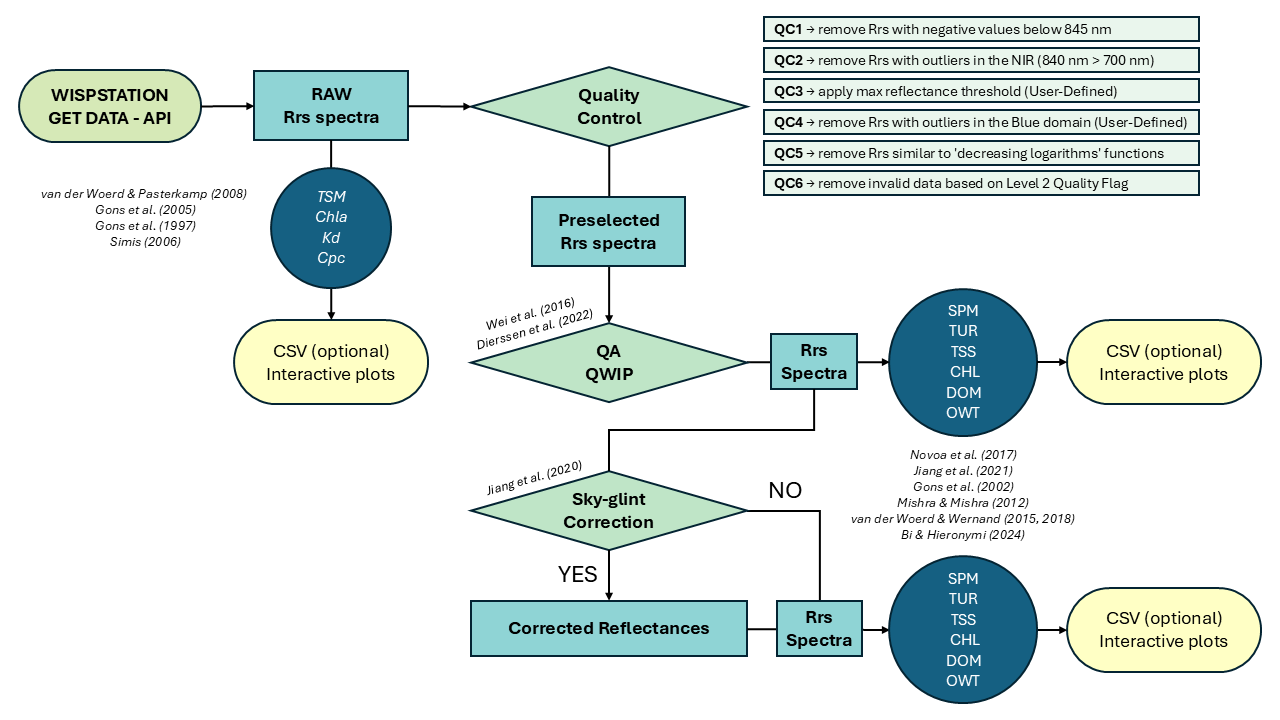
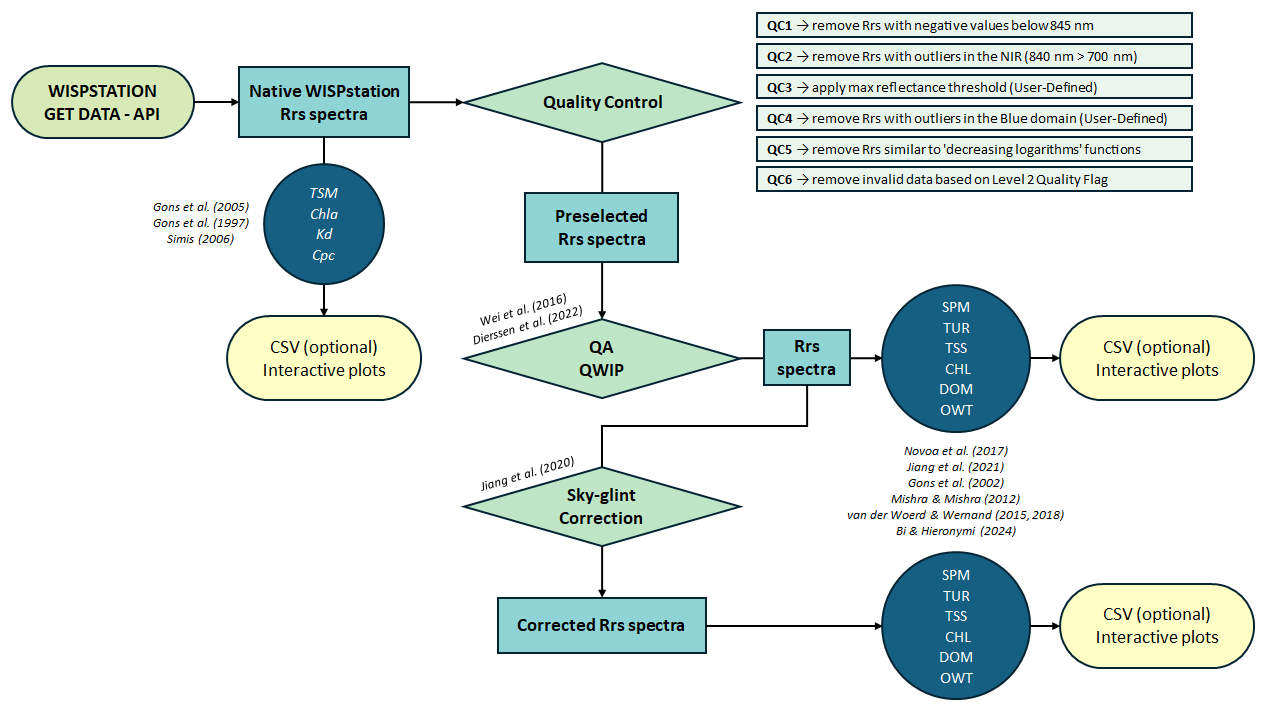
Update Paper

diff --git a/paper/paper.md b/paper/paper.md
@@ -60,17 +60,16 @@ header-includes:
 # Summary
 
 `WISP.data` is an R package designed to automate the download, quality control (QC), processing, analysis, and visualization of spectral data collected by WISPstation fixed spectroradiometers.
-Developed by Water Insight B.V. (Ede, The Netherlands) as an evolution of the handheld WISP-3 system [@Hommersom:2012], the WISPstation is an autonomous above water instrument installed at fixed position that records radiance and irradiance across a wavelength range of 350 to 900 nm, with a spectral resolution of 4.6 nm at high frequency (e.g. every 15 minutes, during daytime).
+Developed by Water Insight B.V. (Ede, The Netherlands) as an evolution of the handheld WISP-3 system [@Hommersom:2012], the WISPstation is an autonomous above water instrument installed at fixed position that records radiance and irradiance across a wavelength range of 350 to 900 nm, with a spectral resolution of 4.6 nm at high frequency (e.g. every 15 minutes, during daytime) [@Peters:2018].
 This R package serves as a crucial bridge between Water Insight API services and the scientific users, enabling the conversion of native reflectance measurements into robust, analysis-ready products through fully reproducible and transparent workflows, from an Open Science perspective.
 
-The package performs the retrieval of water-leaving radiance ($L_w$) from total upwelling radiance ($L_u$), which includes sky- and sun-glint contributions, by integrating $L_{sky}$ and $E_s$ measurements.
 `WISP.data` provides a modular set of R functions for: I. downloading data from specific WISPstation by making use of the solutions provided by Water Insight itself (APIs and now via user accounts); II. performing automated and reproducible quality control (QC); III. performing automated sky-glint removal (SR); IV. applying empirical and semi‑analytical bio‑optical algorithms to spectral measurements to retrieve optical properties and water quality parameters; V. visualizing spectral and derived data products.
 
 This makes `WISP.data` an ideal solution for satellite-derived product validation, operational water quality monitoring, long-term research applications, and integration into large-scale environmental data pipelines.
 
 # Statement of need
 
-The WISPstation is an autonomous above water fixed spectrometer installed at fixed position, that supports continuous monitoring of water quality; beyond providing high-frequency spectral measurements, it provides water quality products derived from selected algorithms [@Gons:1997; @Gons:2005; @Simis:2006; @vanderWoerd:2008], essential for environmental observation, ecosystem assessment, and long-term trend analysis.
+The WISPstation is an autonomous above water fixed spectrometer installed at a fixed position, which supports continuous monitoring of water quality; beyond providing high-frequency spectral measurements, it provides water quality products derived from selected algorithms [@Gons:1997; @Gons:2005; @Simis:2005], essential for environmental observation, ecosystem assessment, and long-term trend analysis.
 
 The WISPstation operates with 8 specialized channels to optimize data collection:
 
@@ -79,7 +78,7 @@ The WISPstation operates with 8 specialized channels to optimize data collection
 
 The system automatically selects the best-oriented sensor set based on the Sun's position, maintaining a relative azimuth angle of approximately 135°.
 
-The primary aim of `WISP.data` is the derivation of Remote Sensing Reflectance (R~rs~), defined as the ratio between water-leaving radiance ($L_w$) and downwelling irradiance ($E_s$):
+A central function of `WISP.data` is the retrieval and management of Remote Sensing Reflectance (R~rs~), which the WISPstation calculates as the ratio between water-leaving radiance ($L_w$) and downwelling irradiance ($E_s$) [@Mobley:1999]:
 
 $$\text{R}_{rs}(\lambda) = \frac{L_w(\lambda)}{E_s(\lambda)} = \frac{L_u(\lambda) - \rho \cdot L_{sky}(\lambda)}{E_s(\lambda)}$$
 
@@ -104,13 +103,15 @@ By lowering technical and methodological barriers, the package enables both expe
 # State of the field                            
 
 The current benchmark for processing WISPstation data is WISPcloud (https://wispcloud.waterinsight.nl/), a proprietary web-based infrastructure developed by Water Insight.
-While WISPcloud provides an efficient 'plug-and-play' solution by delivering ready-to-use products, its 'black-box' nature poses significant challenges for rigorous scientific inquiry.
+While WISPcloud provides an efficient 'plug-and-play' solution by delivering ready-to-use products, its closed proprietary architecture poses significant challenges for rigorous scientific inquiry.
 Specifically, the platform lacks the flexibility to modify critical processing parameters, test third-party algorithms, or customize site-specific quality control thresholds.
 
 In the R ecosystem, while established packages exist for general hyperspectral analysis (e.g., `hyperSpec` [@hyperSpec]) or for specific in-water optical profilers (e.g., `cops` [@cops; @cops-paper]), there is a notable software gap for autonomous, fixed, above-water spectroradiometers.
 Rather than merely replicating existing cloud functionalities, `WISP.data` transforms a proprietary workflow into an open, verifiable, and scientifically controllable ecosystem.
 
 # Software design
+
+The choice of R as the development environment is motivated by its capacity for developing well‑curated, extensively documented packages within a coherent methodological structure. This choice is further justified by R's high effectiveness in statistical data analysis—a central aspect of this study—and its native support for reproducible scientific workflows, which aligns with the Open Science goals of `WISP.data`.
 
 The design philosophy of `WISP.data` is based on three characteristics: I. a modular, pipeline-oriented workflow abstracting complex API interactions; II. the adoption of community standards for data manipulation and physical units; III. a "transparent-box" approach to quality control, sky-glint removal, and bio-optical algorithms application.
 The complete workflow of the `WISP.data` package is shown in Figure \ref{fig:workflow}.
@@ -177,5 +178,6 @@ Generative AI tools were used as a support for code development.
 # Acknowledgements
 
 The development of this package and the related publication has been funded by the European Union – Next Generation EU, Mission 4, Component 2 – CUP B53C22002150006, within the Project IR0000032 – ITINERIS (Italian Integrated Environmental Research Infrastructures System), and has been partially supported by the European Union’s Horizon 2020 research and innovation programme under the H2020 eLTER‑Plus project (Grant Agreement No. 871128, DOI: 10.3030/871128) and the eLTER EnRich project (Grant Agreement No. 101131751, DOI: 10.3030/101131751).
+The authors would also like to thank the Water Insight Team for sharing technical information regarding the WISPstation and its operation, as well as for their valuable advice during the drafting of the manuscript.
 
 # References

diff --git a/README.md b/README.md
@@ -14,7 +14,7 @@
 ## Summary
 
 `WISP.data` is an R package designed to automate the download, quality control (QC), processing, analysis, and visualization of spectral data collected by WISPstation fixed spectroradiometers.
-Developed by Water Insight B.V. (Ede, The Netherlands) as an evolution of the handheld WISP-3 system (Hommersom et al., 2012), the WISPstation is an autonomous above water instrument installed at fixed position that records radiance and irradiance across a wavelength range of 350 to 900 nm, with a spectral resolution of 4.6 nm at high frequency (e.g. every 15 minutes, during daytime).
+Developed by Water Insight B.V. (Ede, The Netherlands) as an evolution of the handheld WISP-3 system (Hommersom et al., 2012), the WISPstation is an autonomous above water instrument installed at fixed position that records radiance and irradiance across a wavelength range of 350 to 900 nm, with a spectral resolution of 4.6 nm at high frequency (e.g. every 15 minutes, during daytime) (Peters et al., 2018).
 This R package serves as a crucial bridge between Water Insight API services and the scientific users, enabling the conversion of native reflectance measurements into robust, analysis-ready products through fully reproducible and transparent workflows, from an Open Science perspective.
 
 The WISPstation operates with 8 specialized channels to optimize data collection:
@@ -24,7 +24,7 @@ The WISPstation operates with 8 specialized channels to optimize data collection
 
 The system automatically selects the best-oriented sensor set based on the Sun's position, maintaining a relative azimuth angle of approximately 135°.
 
-The primary aim of `WISP.data` is the derivation of Remote Sensing Reflectance (Rrs), defined as the ratio between water-leaving radiance ($L_w$) and downwelling irradiance ($E_s$):
+A central function of `WISP.data` is the retrieval and management of Remote Sensing Reflectance (R~rs~), which the WISPstation calculates as the ratio between water-leaving radiance ($L_w$) and downwelling irradiance ($E_s$) (Mobley, 1999):
 
 $$\text{Rrs}(\lambda) = \frac{L_w(\lambda)}{E_s(\lambda)} = \frac{L_u(\lambda) - \rho \cdot L_{sky}(\lambda)}{E_s(\lambda)}$$
 
@@ -44,7 +44,7 @@ This makes `WISP.data` an ideal solution for operational water quality monitorin
 
 ## Statement of need
 
-The WISPstation is a fixed spectrometer that plays a crucial role in the continuous monitoring of water quality; beyond providing high-frequency spectral measurements, it delivers specialized water quality products derived through various algorithms (Gons et al., 1997, 2005; Simis, 2006; van der Woerd & Pasterkamp, 2008), essential for environmental observation, ecosystem assessment, and long-term trend analysis. 
+The WISPstation is a fixed spectrometer that plays a crucial role in the continuous monitoring of water quality; beyond providing high-frequency spectral measurements, it delivers specialized water quality products derived through various algorithms (Gons et al., 1997, 2005; Simis, 2005), essential for environmental observation, ecosystem assessment, and long-term trend analysis. 
 
 However, the effective management and scientific use of these spectral data and derived products present several significant challenges.
 Data retrieval through API services is often labor-intensive and technically demanding, especially for users without advanced programming experience. 
@@ -152,10 +152,11 @@ In this section, we showcase some of the typical outputs generated by `WISP.data
 * Jiang, D., Matsushita, B., Pahlevan, N., Gurlin, D., Lehmann, M. K., Fichot, C. G., ... & O'Donnell, D. (2021). Remotely estimating total suspended solids concentration in clear to extremely turbid waters using a novel semi-analytical method. *Remote Sensing of Environment*, 258, 112386. https://doi.org/10.1016/j.rse.2021.112386.
 * Lee, Z., Carder, K. L., & Arnone, R. A. (2002). Deriving inherent optical properties from water color: a multiband quasi-analytical algorithm for optically deep waters. *Applied optics*, 41(27), 5755-5772. https://doi.org/10.1364/AO.41.005755.
 * Mishra, S., & Mishra, D. R. (2012). Normalized difference chlorophyll index: A novel model for remote estimation of chlorophyll-a concentration in turbid productive waters. *Remote Sensing of Environment*, 117, 394-406. https://doi.org/10.1016/j.rse.2011.10.016.
+* Mobley, C. D. (1999). Estimation of the remote-sensing reflectance from above-surface measurements. *Applied optics*, 38(36), 7442-7455. https://doi.org/10.1364/AO.38.007442
 * Nechad, B., Ruddick, K. G., & Park, Y. (2010). Calibration and validation of a generic multisensor algorithm for mapping of total suspended matter in turbid waters. *Remote Sensing of Environment*, 114(4), 854-866. https://doi.org/10.1016/j.rse.2009.11.022.
 * Novoa, S., Doxaran, D., Ody, A., Vanhellemont, Q., Lafon, V., Lubac, B., & Gernez, P. (2017). Atmospheric corrections and multi-conditional algorithm for multi-sensor remote sensing of suspended particulate matter in low-to-high turbidity levels coastal waters. *Remote Sensing*, 9(1), 61. https://doi.org/10.3390/rs9010061.
-* Simis, S. G. H. (2006). Blue-green catastrophe: remote sensing of mass viral lysis of cyanobacteria. Vrije Universiteit Amsterdam.
-* van der Woerd, H. J., & Pasterkamp, R. (2008). HYDROPT: A fast and flexible method to retrieve chlorophyll-a from multispectral satellite observations of optically complex coastal waters. *Remote Sensing of Environment*, 112(4), 1795-1807. https://doi.org/10.1016/j.rse.2007.09.001.
+* Peters, S., Laanen, M., Groetsch, P., Ghezehegn, S., Poser, K., Hommersom, A., ... & Spaias, L. (2018, October). WISPstation: A new autonomous above water radiometer system. *In Proceedings of the Ocean Optics XXIV Conference*, Dubrovnik, Croatia (pp. 7-12).
+* Simis, S. G., Peters, S. W., & Gons, H. J. (2005). Remote sensing of the cyanobacterial pigment phycocyanin in turbid inland water. *Limnology and Oceanography*, 50(1), 237-245. https://doi.org/10.4319/lo.2005.50.1.0237.
 * van der Woerd, H. J., & Wernand, M. R. (2015). True colour classification of natural waters with medium-spectral resolution satellites: SeaWiFS, MODIS, MERIS and OLCI. *Sensors*, 15(10), 25663-25680. https://doi.org/10.3390/s151025663.
 * van der Woerd, H. J., & Wernand, M. R. (2018). Hue-angle product for low to medium spatial resolution optical satellite sensors. *Remote Sensing*, 10(2), 180. https://doi.org/10.3390/rs10020180.
 * Wei, J., Lee, Z., & Shang, S. (2016). A system to measure the data quality of spectral remote‐sensing reflectance of aquatic environments. *Journal of Geophysical Research: Oceans*, 121(11), 8189-8207. https://doi.org/10.1002/2016JC012126.
